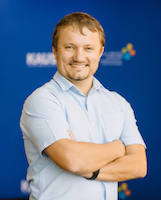
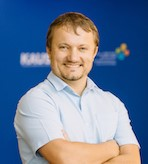
edit speaker

diff --git a/speakers/index.html b/speakers/index.html
@@ -174,7 +174,7 @@
     <div class="row">
       
 
-        <img class="speaker_img" src=https://scholar.googleusercontent.com/citations?view_op=view_photo&user=Qhe5ua0AAAAJ&citpid=4 sizes="print 53px,86px">
+        <img class="speaker_img" src=/assets/images/sa.jpg>
         <ul class="list-unstyled">
           <li>&nbsp; <font size="+2">Salman Avestimehr </font></li>
           <br>
